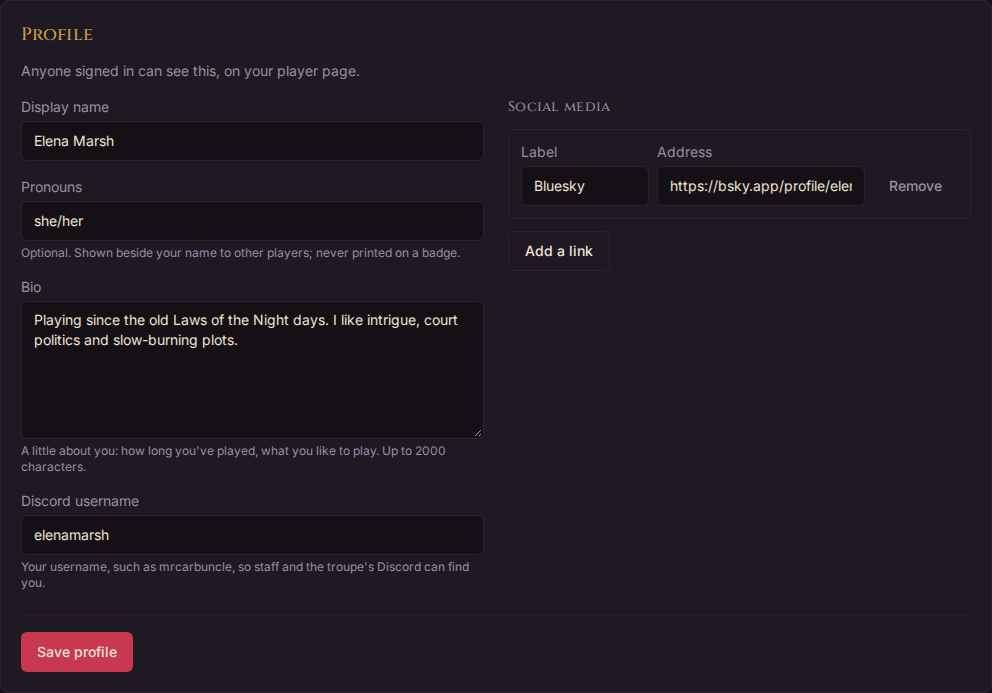
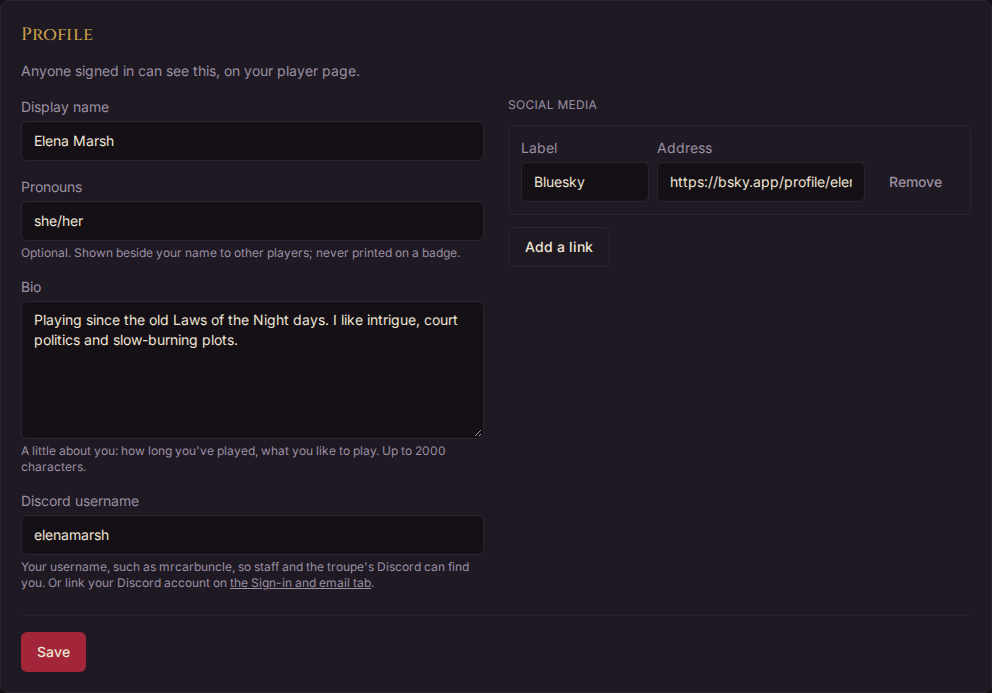
docs: retake the getting-started manual screenshots
The calendar shot shows the subscribe dialog's new wording from #1102:
each game comes with your answer, and anyone with the link can see your
answers. Sign-in shows the passkey button, Profile the Save button and
the Discord hint's link, and Preferences its cards one above the other.
Sign-up and the Notifications tab were unchanged, and the bell is left
as it was: on a computer its lines no longer wrap.

Headless Chrome turns down the passkeys the login box offers at once,
and the sign-in page showed the refusal, so the spec tells that page the
browser can't offer them there.

The Profile list's Discord line now says you can link your Discord
account instead, as the hint on the page does.

Closes #1112

Claude-Session: https://claude.ai/code/session_01R6r1N4yXytmxA4CMKTDY6j

diff --git a/frontend/e2e/manual-getting-started.spec.ts b/frontend/e2e/manual-getting-started.spec.ts
@@ -34,10 +34,16 @@ test("manual: getting started", async ({ browser }, info) => {
   test.skip(info.project.name !== "desktop", "desktop only");
   test.setTimeout(120_000);
 
-  // Signed out: the sign-in page.
+  // Signed out: the sign-in page. Headless Chrome turns down the passkeys the login
+  // box offers (#1098) at once, where a person's browser waits quietly, and the page
+  // shows the refusal; so this browser doesn't offer them from the login box.
   const visitor = await (await browser.newContext({ viewport: { width: 1280, height: 900 } })).newPage();
+  await visitor.addInitScript(() => {
+    PublicKeyCredential.isConditionalMediationAvailable = async () => false;
+  });
   await visitor.goto("/sign-in");
   await expect(visitor.getByRole("heading", { name: "Sign in" })).toBeVisible();
+  await expect(visitor.getByRole("button", { name: "Sign in with a passkey" })).toBeVisible();
   await shot(visitor.locator("main"), "sign-in");
 
   // Signing up, with plain names rather than the suite's run numbers: these shots

diff --git a/docs/manual/getting-started.md b/docs/manual/getting-started.md
@@ -61,7 +61,7 @@ Anyone signed in can see your profile, on your player page. On the **Profile** t
 - **Display name**: your name as everyone sees it.
 - **Pronouns**: optional, shown beside your name to other players. Type anything, or pick a common one such as she/her or they/them from the list. Pronouns are never printed on a badge.
 - **Bio**: a little about you, up to 2000 characters.
-- **Discord username**: so staff and your troupe's Discord can find you.
+- **Discord username**: so staff and your troupe's Discord can find you. Or [link your Discord account](#your-discord-account) on the Sign-in and email tab instead.
 - **Social media**: up to six links, each with a label such as Bluesky.
 
 Choose **Save** when you're done. If you try to leave with changes not saved, Horatio asks first.
